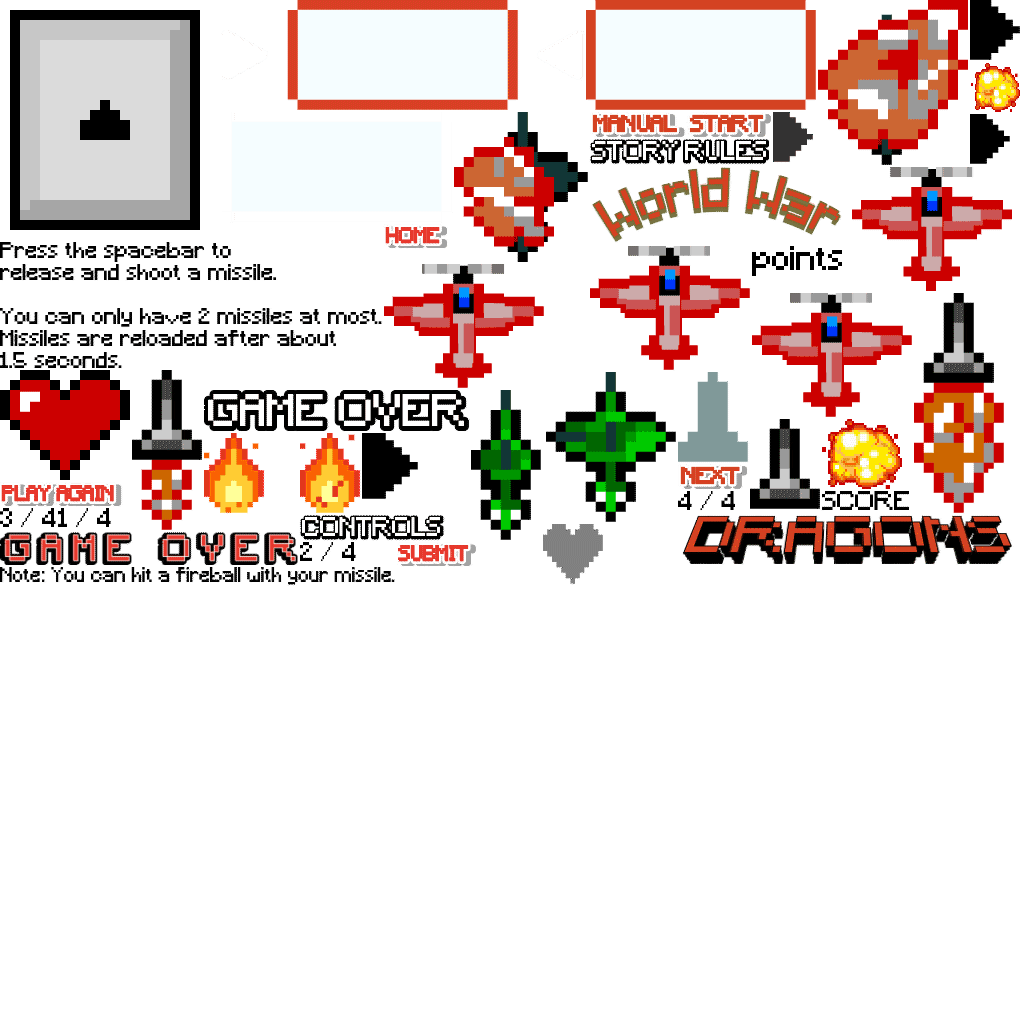
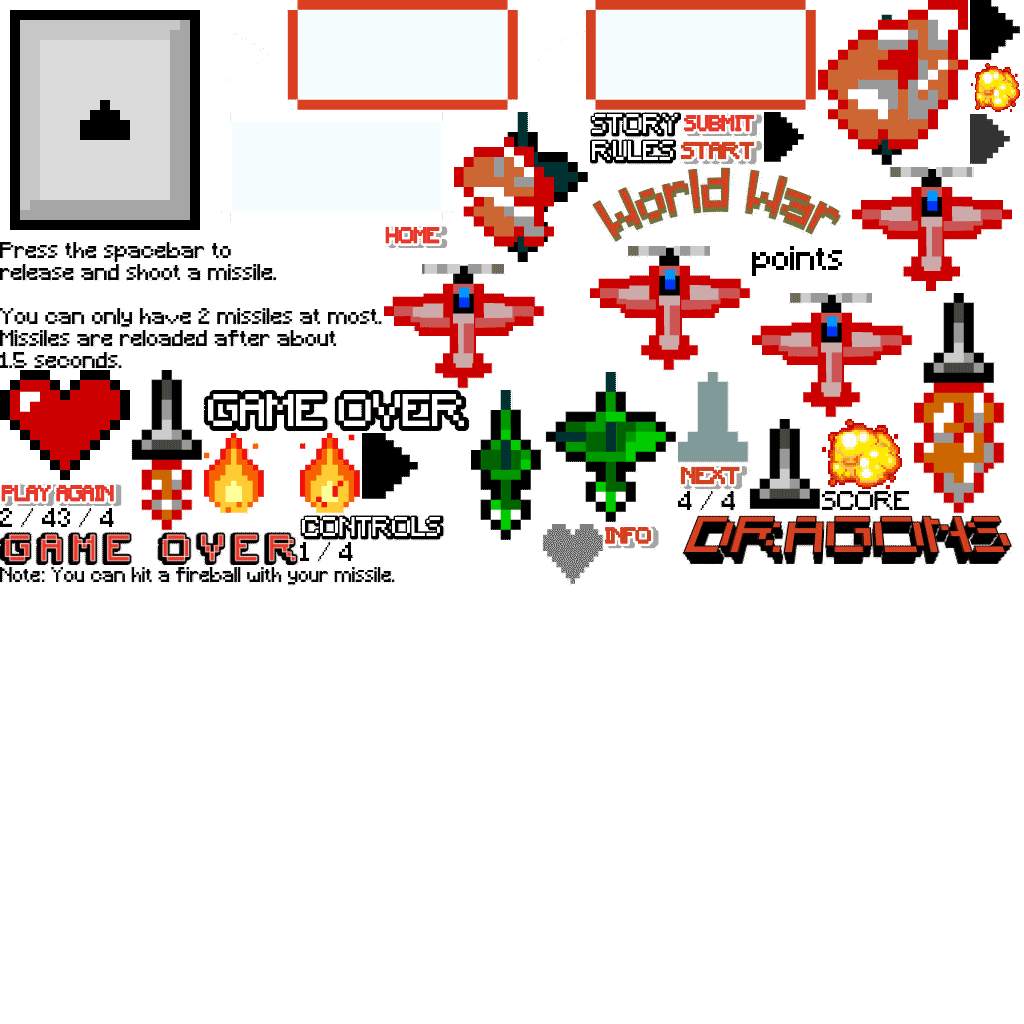
Change textbox

diff --git a/demo2_A4.js b/demo2_A4.js
@@ -10,7 +10,7 @@ var tFontsUpdateCacheList = [];
 lib.ssMetadata = [
 		{name:"demo2_A4_atlas_", frames: [[0,0,1174,1044]]},
 		{name:"demo2_A4_atlas_2", frames: [[1002,952,900,900],[0,0,1000,1200],[1002,0,900,950],[651,1596,346,176],[0,1202,600,600],[651,1854,328,173],[651,1380,311,214],[0,1804,649,205],[602,1202,391,176]]},
-		{name:"demo2_A4_atlas_3", frames: [[970,62,50,50],[852,167,160,124],[0,370,130,110],[590,246,160,124],[384,264,160,124],[752,293,160,124],[678,372,70,90],[822,419,80,70],[914,293,90,220],[132,370,70,160],[750,419,70,90],[543,524,60,60],[300,433,60,80],[204,433,60,80],[818,0,150,165],[454,112,134,150],[471,390,70,150],[546,372,130,150],[222,112,230,110],[222,0,362,110],[586,0,230,110],[362,433,56,66],[773,112,40,50],[970,0,50,60],[970,114,40,50],[300,515,144,25],[0,242,382,126],[678,515,343,50],[58,508,53,19],[0,532,298,33],[204,390,265,41],[384,224,63,24],[0,0,220,240],[678,491,57,19],[590,112,95,25],[678,464,69,25],[0,567,395,18],[0,482,122,24],[752,246,90,30],[683,139,86,25],[822,491,87,19],[300,542,56,19],[687,112,84,25],[590,139,91,25],[397,542,79,24],[0,508,56,19],[590,167,260,77]]}
+		{name:"demo2_A4_atlas_3", frames: [[970,62,50,50],[852,167,160,124],[0,370,130,110],[590,246,160,124],[384,264,160,124],[752,293,160,124],[678,372,70,90],[822,419,80,70],[914,293,90,220],[132,370,70,160],[750,419,70,90],[543,524,60,60],[300,433,60,80],[204,433,60,80],[818,0,150,165],[454,112,134,150],[471,390,70,150],[546,372,130,150],[222,112,230,110],[222,0,362,110],[586,0,230,110],[362,433,56,66],[970,114,40,50],[970,0,50,60],[764,112,40,50],[300,515,144,25],[0,242,382,126],[678,515,343,50],[300,542,53,19],[0,532,298,33],[204,390,265,41],[384,224,63,24],[605,524,54,25],[0,0,220,240],[678,491,57,19],[678,464,69,25],[0,567,395,18],[0,482,122,24],[752,246,90,30],[590,139,86,25],[822,491,87,19],[0,508,56,19],[678,139,84,25],[590,112,91,25],[683,112,79,24],[58,508,56,19],[590,167,260,77]]}
 ];
 
 
@@ -340,21 +340,21 @@ lib.tfontAvailable = function(family, totalTypekitCount) {
 
 
 
-(lib.keyboard = function() {
+(lib.info = function() {
 	this.initialize(ss["demo2_A4_atlas_3"]);
 	this.gotoAndStop(32);
 }).prototype = p = new cjs.Sprite();
 
 
 
-(lib.lastPage = function() {
+(lib.keyboard = function() {
 	this.initialize(ss["demo2_A4_atlas_3"]);
 	this.gotoAndStop(33);
 }).prototype = p = new cjs.Sprite();
 
 
 
-(lib.manual = function() {
+(lib.lastPage = function() {
 	this.initialize(ss["demo2_A4_atlas_3"]);
 	this.gotoAndStop(34);
 }).prototype = p = new cjs.Sprite();
@@ -587,6 +587,19 @@ p.draw = _componentDraw;
 	this._renderFirstFrame();
 
 }).prototype = getMCSymbolPrototype(lib.Symbol1, new cjs.Rectangle(0,0,65,55), null);
+
+
+(lib.SubmitText = function(mode,startPosition,loop) {
+	this.initialize(mode,startPosition,loop,{});
+
+	// Layer_1
+	this.instance = new lib.submit();
+
+	this.timeline.addTween(cjs.Tween.get(this.instance).wait(1));
+
+	this._renderFirstFrame();
+
+}).prototype = getMCSymbolPrototype(lib.SubmitText, new cjs.Rectangle(0,0,79,24), null);
 
 
 (lib.nextText = function(mode,startPosition,loop) {
@@ -1541,6 +1554,11 @@ p.nominalBounds = new cjs.Rectangle(-250,-300,500,600);
 			}
 			else if (e.keyCode == 40) // down button pressed
 			{
+				if(moveSound != null)
+				{
+					moveSound.stop();
+				}
+				
 				player.direction = STOP;
 			}
 		}
@@ -2128,26 +2146,42 @@ p.nominalBounds = new cjs.Rectangle(-250,-300,500,600);
 		thisGame.home.addEventListener("click", goHome);
 		thisGame.submitName.addEventListener("click", getName);
 		
-		var playerName;
+		var playerName = null;
 		
 		function playAgain()
 		{
 			thisGame.gameMusic.stop();
-			thisGame.playAgain.removeEventListener("click", playAgain);
+			thisGame.removeAllEventListeners();
+			thisGame.submitName.visible = true;
+			thisGame.submitText.visible = true;
+			if(playerName != null)
+			{
+				playerName.disabled = false;
+			}
 			thisGame.gotoAndStop("play");
 		}
 		
 		function goHome()
 		{
 			thisGame.gameMusic.stop();
-			thisGame.home.removeEventListener("click", goHome);
+			thisGame.removeAllEventListeners();
+			thisGame.submitName.visible = true;
+			thisGame.submitText.visible = true;
+			if(playerName != null)
+			{
+				playerName.disabled = false;
+			}
 			thisGame.gotoAndStop("intro");
 		}
 		
 		function getName()
 		{	
-			playerName = document.getElementById("playerName").value;
-			alert("Congrats " + playerName + "!");
+			playerName = document.getElementById("playerName");
+			alert("Congratulations " + playerName.value + "! You earned " + thisGame.score + " points!");
+			thisGame.submitName.visible = false;
+			thisGame.submitText.visible = false;
+			thisGame.submitName.removeEventListener("click", getName);
+			playerName.disabled = true;
 		}
 	}
 
@@ -2155,8 +2189,8 @@ p.nominalBounds = new cjs.Rectangle(-250,-300,500,600);
 	this.timeline.addTween(cjs.Tween.get(this).call(this.frame_0).wait(5).call(this.frame_5).wait(5).call(this.frame_10).wait(5).call(this.frame_15).wait(5));
 
 	// main_layer
-	this.instance = new lib.manual();
-	this.instance.setTransform(523,361);
+	this.instance = new lib.info();
+	this.instance.setTransform(541,361);
 
 	this.instance_1 = new lib.start();
 	this.instance_1.setTransform(293,361);
@@ -2236,8 +2270,9 @@ p.nominalBounds = new cjs.Rectangle(-250,-300,500,600);
 	this.instance_9 = new lib.MissileGreyed();
 	this.instance_9.setTransform(870,110);
 
-	this.instance_10 = new lib.submit();
-	this.instance_10.setTransform(413,278);
+	this.submitText = new lib.SubmitText();
+	this.submitText.name = "submitText";
+	this.submitText.setTransform(452.5,290,1,1,0,0,0,39.5,12);
 
 	this.submitName = new lib.button();
 	this.submitName.name = "submitName";
@@ -2249,11 +2284,11 @@ p.nominalBounds = new cjs.Rectangle(-250,-300,500,600);
 	this.playerName.name = "playerName";
 	this.playerName.setTransform(450,236,1,1,0,0,0,50,11);
 
-	this.instance_11 = new lib.homeText();
-	this.instance_11.setTransform(514,406,0.873,0.8333);
+	this.instance_10 = new lib.homeText();
+	this.instance_10.setTransform(514,406,0.873,0.8333);
 
-	this.instance_12 = new lib.playAgain();
-	this.instance_12.setTransform(312,406,0.8197,0.8333);
+	this.instance_11 = new lib.playAgain();
+	this.instance_11.setTransform(312,406,0.8197,0.8333);
 
 	this.home = new lib.button();
 	this.home.name = "home";
@@ -2265,16 +2300,16 @@ p.nominalBounds = new cjs.Rectangle(-250,-300,500,600);
 	this.playAgain.setTransform(360,415);
 	new cjs.ButtonHelper(this.playAgain, 0, 1, 2);
 
-	this.instance_13 = new lib.pointsText();
-	this.instance_13.setTransform(478,159,0.7778,0.8333);
+	this.instance_12 = new lib.pointsText();
+	this.instance_12.setTransform(478,159,0.7778,0.8333);
 
-	this.instance_14 = new lib.gameOverTwo();
-	this.instance_14.setTransform(320,50);
+	this.instance_13 = new lib.gameOverTwo();
+	this.instance_13.setTransform(320,50);
 
-	this.instance_15 = new lib.CachedBmp_1();
-	this.instance_15.setTransform(225,12.5,0.5,0.5);
+	this.instance_14 = new lib.CachedBmp_1();
+	this.instance_14.setTransform(225,12.5,0.5,0.5);
 
-	this.timeline.addTween(cjs.Tween.get({}).to({state:[{t:this.instance_2},{t:this.start},{t:this.manual},{t:this.instance_1},{t:this.instance}]}).to({state:[{t:this.instance_3}]},5).to({state:[{t:this.instance_9},{t:this.instance_8},{t:this.missileOne},{t:this.scoreText,p:{x:885,y:462.7,text:"0",lineWidth:160}},{t:this.instance_7},{t:this.heartOne},{t:this.instance_6},{t:this.heartTwo},{t:this.instance_5},{t:this.heartThree},{t:this.missileTwo},{t:this.instance_4},{t:this.nextButton},{t:this.nextText}]},5).to({state:[{t:this.instance_15},{t:this.instance_14},{t:this.scoreText,p:{x:464.05,y:162,text:"",lineWidth:156}},{t:this.instance_13},{t:this.playAgain},{t:this.home},{t:this.instance_12},{t:this.instance_11},{t:this.playerName},{t:this.submitName},{t:this.instance_10}]},5).wait(5));
+	this.timeline.addTween(cjs.Tween.get({}).to({state:[{t:this.instance_2},{t:this.start},{t:this.manual},{t:this.instance_1},{t:this.instance}]}).to({state:[{t:this.instance_3}]},5).to({state:[{t:this.instance_9},{t:this.instance_8},{t:this.missileOne},{t:this.scoreText,p:{x:885,y:462.7,text:"0",lineWidth:160}},{t:this.instance_7},{t:this.heartOne},{t:this.instance_6},{t:this.heartTwo},{t:this.instance_5},{t:this.heartThree},{t:this.missileTwo},{t:this.instance_4},{t:this.nextButton},{t:this.nextText}]},5).to({state:[{t:this.instance_14},{t:this.instance_13},{t:this.scoreText,p:{x:464.05,y:162,text:"",lineWidth:156}},{t:this.instance_12},{t:this.playAgain},{t:this.home},{t:this.instance_11},{t:this.instance_10},{t:this.playerName},{t:this.submitName},{t:this.submitText}]},5).wait(5));
 
 	// mask_play (mask)
 	var mask = new cjs.Shape();
@@ -2310,14 +2345,14 @@ p.nominalBounds = new cjs.Rectangle(-250,-300,500,600);
 	this.timeline.addTween(cjs.Tween.get({}).to({state:[]}).to({state:[{t:this.player},{t:this.explosion}]},10).to({state:[]},5).wait(5));
 
 	// main_background
-	this.instance_16 = new lib.IntroBG();
-	this.instance_16.setTransform(263.55,257.3,1,1,0,0,0,-21.8,-66.5);
+	this.instance_15 = new lib.IntroBG();
+	this.instance_15.setTransform(263.55,257.3,1,1,0,0,0,-21.8,-66.5);
 
 	this.background = new lib.Background();
 	this.background.name = "background";
 	this.background.setTransform(450,250);
 
-	this.timeline.addTween(cjs.Tween.get({}).to({state:[{t:this.instance_16}]}).to({state:[{t:this.background}]},10).wait(10));
+	this.timeline.addTween(cjs.Tween.get({}).to({state:[{t:this.instance_15}]}).to({state:[{t:this.background}]},10).wait(10));
 
 	this._renderFirstFrame();
 

diff --git a/components/ui/src/css.js b/components/ui/src/css.js
@@ -1,0 +1,15 @@
+(function($) {    
+
+    $.anwidget("an.CSS", {
+        options: {
+			'visible': false
+        },
+		_attrs: ['href'],
+		getAttributes: function() {
+			return this._attrs;
+		},
+		getCreateString: function() {			
+			return "<link rel='stylesheet'>";
+		}    
+	});   
+})(jQuery);
